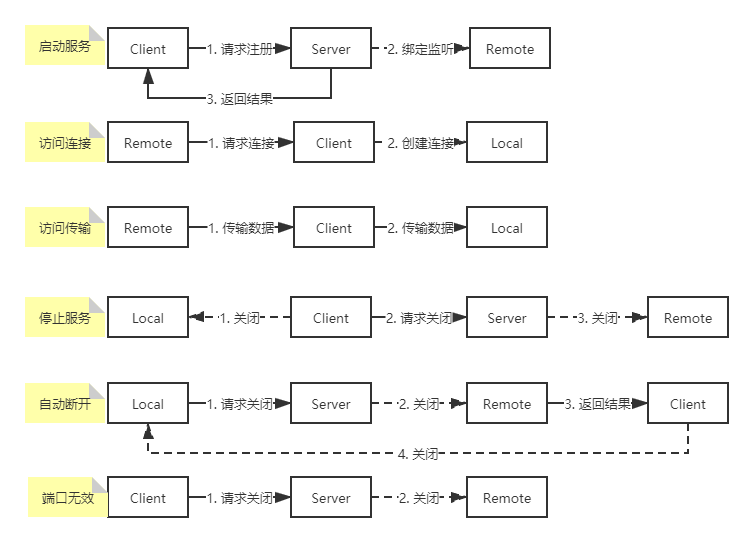
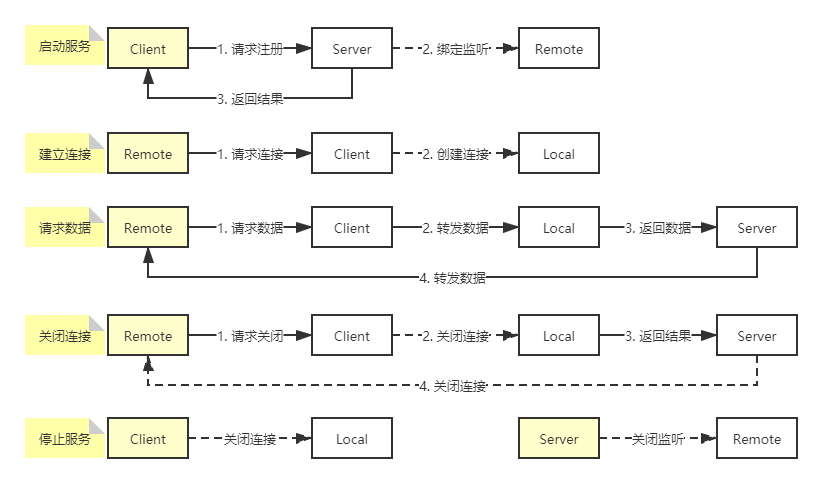
1. 打印log 2. 完善文档

Changed region(s): [[0.0305, 0.0311, 0.9774, 0.9627], [0.7636, 0.8696, 0.9774, 0.9627], [0.8858, 0.4037, 0.9774, 0.4348]]

diff --git a/nat-server/src/main/resources/templates/index.html b/nat-server/src/main/resources/templates/index.html
@@ -13,7 +13,7 @@
         <div class="site-zfj">
             <i class="layui-icon layui-icon-release" style="color: #fff; color: rgba(255,255,255,.7);"></i>
         </div>
-        <div class="layui-anim site-desc">
+        <div class="site-desc">
             <p class="web-font-desc">内网穿透</p>
             <cite>1. 微信、支付宝支付 2. 小程序应用 3. 个人网站 ......</cite>
         </div>
@@ -39,11 +39,15 @@
     <div class="layui-row">
         <div class="layui-col-md6">
             <h1 style="text-align: center; margin: 20px 0; color: #393D49;">流程图</h1>
-            <div style="width: 600px; height: 400px; margin: 0 auto; background-image: url(image/flow.png); background-size: 100% 100%;"></div>
+            <div style="width: 600px; height: 400px; margin: 0 auto; ">
+                <img src="image/flow.png" style="width: 100%; height: 100%;" alt=""/>
+            </div>
         </div>
         <div class="layui-col-md6">
             <h1 style="text-align: center; margin: 20px 0; color: #393D49;">客户端</h1>
-            <div style="width: 500px; height: 400px; margin: 0 auto; background-image: url(image/app.png); background-size: 100% 100%;"></div>
+            <div style="width: 400px; height: 400px; margin: 0 auto; ">
+                <img src="image/app.png" style="width: 100%; height: 100%;" alt=""/>
+            </div>
         </div>
     </div>
 

diff --git a/nat-client/src/main/java/com/example/demo/handler/ClientHandler.java b/nat-client/src/main/java/com/example/demo/handler/ClientHandler.java
@@ -2,7 +2,10 @@ package com.example.demo.handler;
 
 import com.example.demo.MainForm;
 import com.example.demo.protocol.Utils;
-import io.netty.channel.*;
+import io.netty.channel.Channel;
+import io.netty.channel.ChannelHandlerContext;
+import io.netty.channel.ChannelInitializer;
+import io.netty.channel.SimpleChannelInboundHandler;
 import io.netty.channel.group.ChannelGroup;
 import io.netty.channel.group.DefaultChannelGroup;
 import io.netty.channel.socket.SocketChannel;
@@ -38,7 +41,7 @@ public class ClientHandler extends SimpleChannelInboundHandler<Message> {
 
     @Override
     public void channelActive(ChannelHandlerContext ctx) throws Exception {
-        log.info("注册端口......");
+        log.info("注册端口...");
         Message message = Message.of(MessageType.REGISTER, "", Utils.intToByteArray(proxy));
         ctx.writeAndFlush(message);
     }
@@ -47,6 +50,7 @@ public class ClientHandler extends SimpleChannelInboundHandler<Message> {
     public void channelInactive(ChannelHandlerContext ctx) throws Exception {
         log.info("与服务端断开连接...");
         MainForm.getInstance().showMessage("与服务端断开连接...");
+        MainForm.getInstance().restart();
         channels.close();
     }
 
@@ -54,7 +58,7 @@ public class ClientHandler extends SimpleChannelInboundHandler<Message> {
     public void channelRead0(ChannelHandlerContext ctx, Message message) throws Exception {
         switch (message.getType()) {
             case UNKNOWN:
-                log.error("消息错误..."); // UNKNOWN
+                log.error("消息错误...");
                 ctx.close();
                 break;
             case REGISTER:
@@ -65,7 +69,7 @@ public class ClientHandler extends SimpleChannelInboundHandler<Message> {
                 MainForm.getInstance().stop();
                 break;
             case REGISTER_FAILURE:
-                log.info("注册失败，端口占用！");
+                log.error("注册失败，端口占用！");
                 MainForm.getInstance().showMessage("注册失败，端口占用！");
                 MainForm.getInstance().restart();
                 ctx.close();
@@ -97,15 +101,15 @@ public class ClientHandler extends SimpleChannelInboundHandler<Message> {
                             new LocalProxyHandler(ctx.channel(), channelId));
                     channels.add(ch);
                     channelMap.put(channelId, ch);
-                    log.info("连接成功：{}", channelId);
-                    MainForm.getInstance().showMessage("连接成功：" + channelId);
+                    log.info("建立连接成功：{}", channelId);
+                    MainForm.getInstance().showMessage("建立连接成功：" + channelId);
                 }
             });
         } catch (Exception e) {
             log.error("本地端口无效：{}", localPort);
             MainForm.getInstance().showMessage("本地端口无效：" + localPort);
-            Message message_ = Message.of(MessageType.DISCONNECTED, channelId);
-            ctx.writeAndFlush(message_);
+            MainForm.getInstance().restart();
+            ctx.close();
         }
     }
 
@@ -115,8 +119,8 @@ public class ClientHandler extends SimpleChannelInboundHandler<Message> {
         if (channel != null) {
             channel.close();
             channelMap.remove(channelId);
-            log.info("断开连接...");
-            MainForm.getInstance().showMessage("断开连接...");
+            log.info("关闭连接...");
+            MainForm.getInstance().showMessage("关闭连接...");
         }
     }
 
@@ -125,8 +129,8 @@ public class ClientHandler extends SimpleChannelInboundHandler<Message> {
         Channel channel = channelMap.get(channelId);
         if (channel != null) {
             channel.writeAndFlush(message.getData());
-            log.info("传递数据...");
-            MainForm.getInstance().showMessage("传递数据...");
+            log.info("转发数据...");
+            MainForm.getInstance().showMessage("转发数据...");
         }
     }
 

diff --git a/nat-client/src/main/java/com/example/demo/MainForm.java b/nat-client/src/main/java/com/example/demo/MainForm.java
@@ -38,6 +38,7 @@ public class MainForm extends JFrame {
 
     private static TcpClient client;
     private static Thread traffic;
+    private static GlobalTrafficShapingHandler trafficHandler = new GlobalTrafficShapingHandler(Executors.newScheduledThreadPool(1), 1000);
 
     private static JTextField remoteHost;
     private static JTextField remotePort;
@@ -52,14 +53,6 @@ public class MainForm extends JFrame {
     private static JButton btn;
 
     public MainForm() {
-        addWindowListener(new WindowAdapter() {
-            @Override
-            public void windowClosing(WindowEvent e) {
-                close();
-                System.exit(0);
-                super.windowClosing(e);
-            }
-        });
         ImageIcon imageIcon = new ImageIcon(getClass().getResource("/icon.png"));
         setIconImage(imageIcon.getImage());
         setTitle("内网穿透客户端");
@@ -166,7 +159,6 @@ public class MainForm extends JFrame {
         });
         getContentPane().add(btn);
 
-        // 监听拖拽窗口事件
         addComponentListener(new ComponentAdapter() {
             @Override
             public void componentResized(ComponentEvent e) {
@@ -180,17 +172,20 @@ public class MainForm extends JFrame {
                 super.componentResized(e);
             }
         });
+
+        addWindowListener(new WindowAdapter() {
+            @Override
+            public void windowClosing(WindowEvent e) {
+                close();
+                System.exit(0);
+                super.windowClosing(e);
+            }
+        });
     }
 
     public static void main(String[] args) {
         MainForm.getInstance().setVisible(true);
     }
-
-    public void showMessage(String message) {
-        txtConsole.append(message + "\n");
-    }
-
-    private static final GlobalTrafficShapingHandler trafficHandler = new GlobalTrafficShapingHandler(Executors.newScheduledThreadPool(1), 1000);
 
     private static void connect() {
         if (remoteHost == null || StringUtils.isEmpty(remoteHost.getText())
@@ -255,11 +250,13 @@ public class MainForm extends JFrame {
 
     public void stop() {
         btn.setText("停止服务");
-//        txtConsole.append("启动服务\n");
     }
 
     public void restart() {
         btn.setText("启动服务");
-//        txtConsole.append("停止服务\n");
+    }
+
+    public void showMessage(String message) {
+        txtConsole.append(message + "\n");
     }
 }

diff --git a/nat-server/src/main/java/com/example/demo/handler/ServerHandler.java b/nat-server/src/main/java/com/example/demo/handler/ServerHandler.java
@@ -40,7 +40,7 @@ public class ServerHandler extends SimpleChannelInboundHandler<Message> {
     public void channelRead0(ChannelHandlerContext ctx, Message message) throws Exception {
         switch (message.getType()) {
             case UNKNOWN:
-                log.error("消息错误..."); // UNKNOWN
+                log.error("消息错误...");
                 ctx.close();
                 break;
             case REGISTER:
@@ -51,11 +51,11 @@ public class ServerHandler extends SimpleChannelInboundHandler<Message> {
             case CONNECTED:
                 break;
             case DISCONNECTED:
-                log.info("断开连接...");
+                log.info("关闭连接...");
                 channels.close(channel -> channel.id().asLongText().equals(message.getChannelId()));
                 break;
             case DATA:
-                log.info("传递数据...");
+                log.info("转发数据...");
                 channels.writeAndFlush(message.getData(), channel -> channel.id().asLongText().equals(message.getChannelId()));
                 break;
             case KEEPALIVE:
@@ -78,6 +78,7 @@ public class ServerHandler extends SimpleChannelInboundHandler<Message> {
                     channels.add(ch);
                 }
             });
+            System.out.println(this.hashCode());
             Message message = Message.of(MessageType.REGISTER_SUCCESS);
             ctx.writeAndFlush(message);
             log.info("注册成功！客户端{}，监听端口：{}", clientAddress, port);

diff --git a/nat-server/src/main/java/com/example/demo/handler/RemoteProxyHandler.java b/nat-server/src/main/java/com/example/demo/handler/RemoteProxyHandler.java
@@ -17,21 +17,21 @@ public class RemoteProxyHandler extends SimpleChannelInboundHandler<byte[]> {
 
     @Override
     public void channelActive(ChannelHandlerContext ctx) throws Exception {
-        log.info("与客户端建立连接：id={}", ctx.channel().id().asLongText());
+        log.info("请求连接：id={}", ctx.channel().id().asLongText());
         Message message = Message.of(MessageType.CONNECTED, ctx.channel().id().asLongText());
         server2client.writeAndFlush(message);
     }
 
     @Override
     public void channelRead0(ChannelHandlerContext ctx, byte[] msg) throws Exception {
-        log.info("接收到网络请求：id={}", ctx.channel().id().asLongText());
+        log.info("请求数据：id={}", ctx.channel().id().asLongText());
         Message message = Message.of(MessageType.DATA, ctx.channel().id().asLongText(), msg);
         server2client.writeAndFlush(message);
     }
 
     @Override
     public void channelInactive(ChannelHandlerContext ctx) throws Exception {
-        log.info("与客户端断开连接：id={}", ctx.channel().id().asLongText());
+        log.info("请求关闭：id={}", ctx.channel().id().asLongText());
         Message message = Message.of(MessageType.DISCONNECTED, ctx.channel().id().asLongText());
         server2client.writeAndFlush(message);
     }

diff --git a/nat-client/src/main/java/com/example/demo/handler/LocalProxyHandler.java b/nat-client/src/main/java/com/example/demo/handler/LocalProxyHandler.java
@@ -25,14 +25,14 @@ public class LocalProxyHandler extends SimpleChannelInboundHandler<byte[]> {
 
     @Override
     public void channelRead0(ChannelHandlerContext ctx, byte[] msg) throws Exception {
-        log.info("接收到服务端请求：id={}", remoteChannelId);
+        log.info("返回数据：id={}", remoteChannelId);
         Message message = Message.of(MessageType.DATA, remoteChannelId, msg);
         client2Server.writeAndFlush(message);
     }
 
     @Override
     public void channelInactive(ChannelHandlerContext ctx) throws Exception {
-        log.info("与服务端断开连接：id={}", remoteChannelId);
+        log.info("返回结果：id={}", remoteChannelId);
         Message message = Message.of(MessageType.DISCONNECTED, remoteChannelId);
         client2Server.writeAndFlush(message);
     }

diff --git a/README.md b/README.md
@@ -1,11 +1,34 @@
-# NAT 内网穿透
+# nat
+内网穿透 Intranet Penetration (Java + Netty)
 
 1. 微信、支付宝支付
 2. 小程序应用
 3. 个人网站
 4. ......
 
+![alt text](docs/home.png)
+
+## 映射示例
+1. 外网地址：http://www.littleredhat1997.com/
+2. 内网地址：http://localhost/
+3. http://www.littleredhat1997.com:10000/ <=> http://localhost:8080/
+
+| 机器 | 标识 | 端口（默认） |
+| :---: | :---: | :---: |
+| 内网代理 | Local | 8080 |
+| 客户端 | Client | - |
+| 服务端 | Server | 8888 |
+| 外网代理 | Remote | 10000 |
+
+## 流程图
+![alt text](docs/flow.png)
+
+## 客户端
+![alt text](docs/app.png)
+
+
 ## 自定义协议
+`消息体` = `消息体总长度` + `TYPE` + `length(CHANNEL_ID)` + `CHANNEL_ID` + `length(DATA)` + `DATA`
 ```
 private MessageType type;
 private String channelId;
@@ -13,30 +36,62 @@ private byte[] data;
 
 UNKNOWN(0),
 REGISTER(1),
-REGISTER_RESULT(2),
-CONNECTED(3),
-DISCONNECTED(4),
-DATA(5),
-KEEPALIVE(6);
+REGISTER_SUCCESS(2),
+REGISTER_FAILURE(3),
+CONNECTED(4),
+DISCONNECTED(5),
+DATA(6),
+KEEPALIVE(7);
 ```
-报文 = 报文总长度 + Type(4) + CHANNEL_ID_SIZE(4) + CHANNEL_ID + DATA_SIZE(4) + DATA
 
-## 拆包粘包
-LengthFieldBasedFrameDecoder
+## 拆包粘包 LengthFieldBasedFrameDecoder
+参数：
+1. maxFrameLength: 数据包的最大长度
+2. lengthFieldOffset: 长度域的偏移量
+3. lengthFieldLength: 长度域的字节数
+4. lengthAdjustment: 长度域的偏移量矫正
+5. initialBytesToStrip: 丢弃的起始字节数
 
-## 心跳检测
-IdleStateHandler
+示例：
+```
+new LengthFieldBasedFrameDecoder(Integer.MAX_VALUE, 0, 4, 0, 4)
 
-## 转发流程
-| 机器 | 标识 | 端口 |
-| :---: | :---: | :---: |
-| 内网服务 | service | 8080 |
-| 客户端 | client | 随机 |
-| 服务端 | server | 8888 |
-| 代理服务 | proxy | 10000 |
+public class MessageEncoder extends MessageToByteEncoder<Message> {
+    @Override
+    protected void encode(ChannelHandlerContext ctx, Message msg, ByteBuf out) throws Exception {
+        // TODO
+    }
+}
 
-外网地址：http://www.littleredhat1997.com/  
-内网地址：http://localhost/  
-http://localhost:8080/ <=> http://www.littleredhat1997.com:10000/
+public class MessageDecoder extends ByteToMessageDecoder {
+    @Override
+    protected void decode(ChannelHandlerContext ctx, ByteBuf msg, List<Object> out) throws Exception {
+        // TODO
+    }
+}
+```
 
-![alt text](docs/flow.png)
+## 心跳检测 IdleStateHandler
+参数：
+1. readerIdleTimeSeconds: 当在指定时间段内未执行任何读操作时触发
+2. writerIdleTimeSeconds: 当在指定的时间内未执行任何写操作时触发
+3. allIdleTimeSeconds: 当在指定的时间内未执行任何读或写操作时触发
+
+示例：
+```
+new IdleStateHandler(60, 30, 0)
+
+@Override
+public void userEventTriggered(ChannelHandlerContext ctx, Object evt) throws Exception {
+    if (evt instanceof IdleStateEvent) {
+        IdleStateEvent e = (IdleStateEvent) evt;
+        if (e.state() == IdleState.READER_IDLE) {
+            // 
+        } else if (e.state() == IdleState.WRITER_IDLE) {
+            // 
+        } else if (e.state() == IdleState.ALL_IDLE) {
+            // 
+        }
+    }
+}
+```
